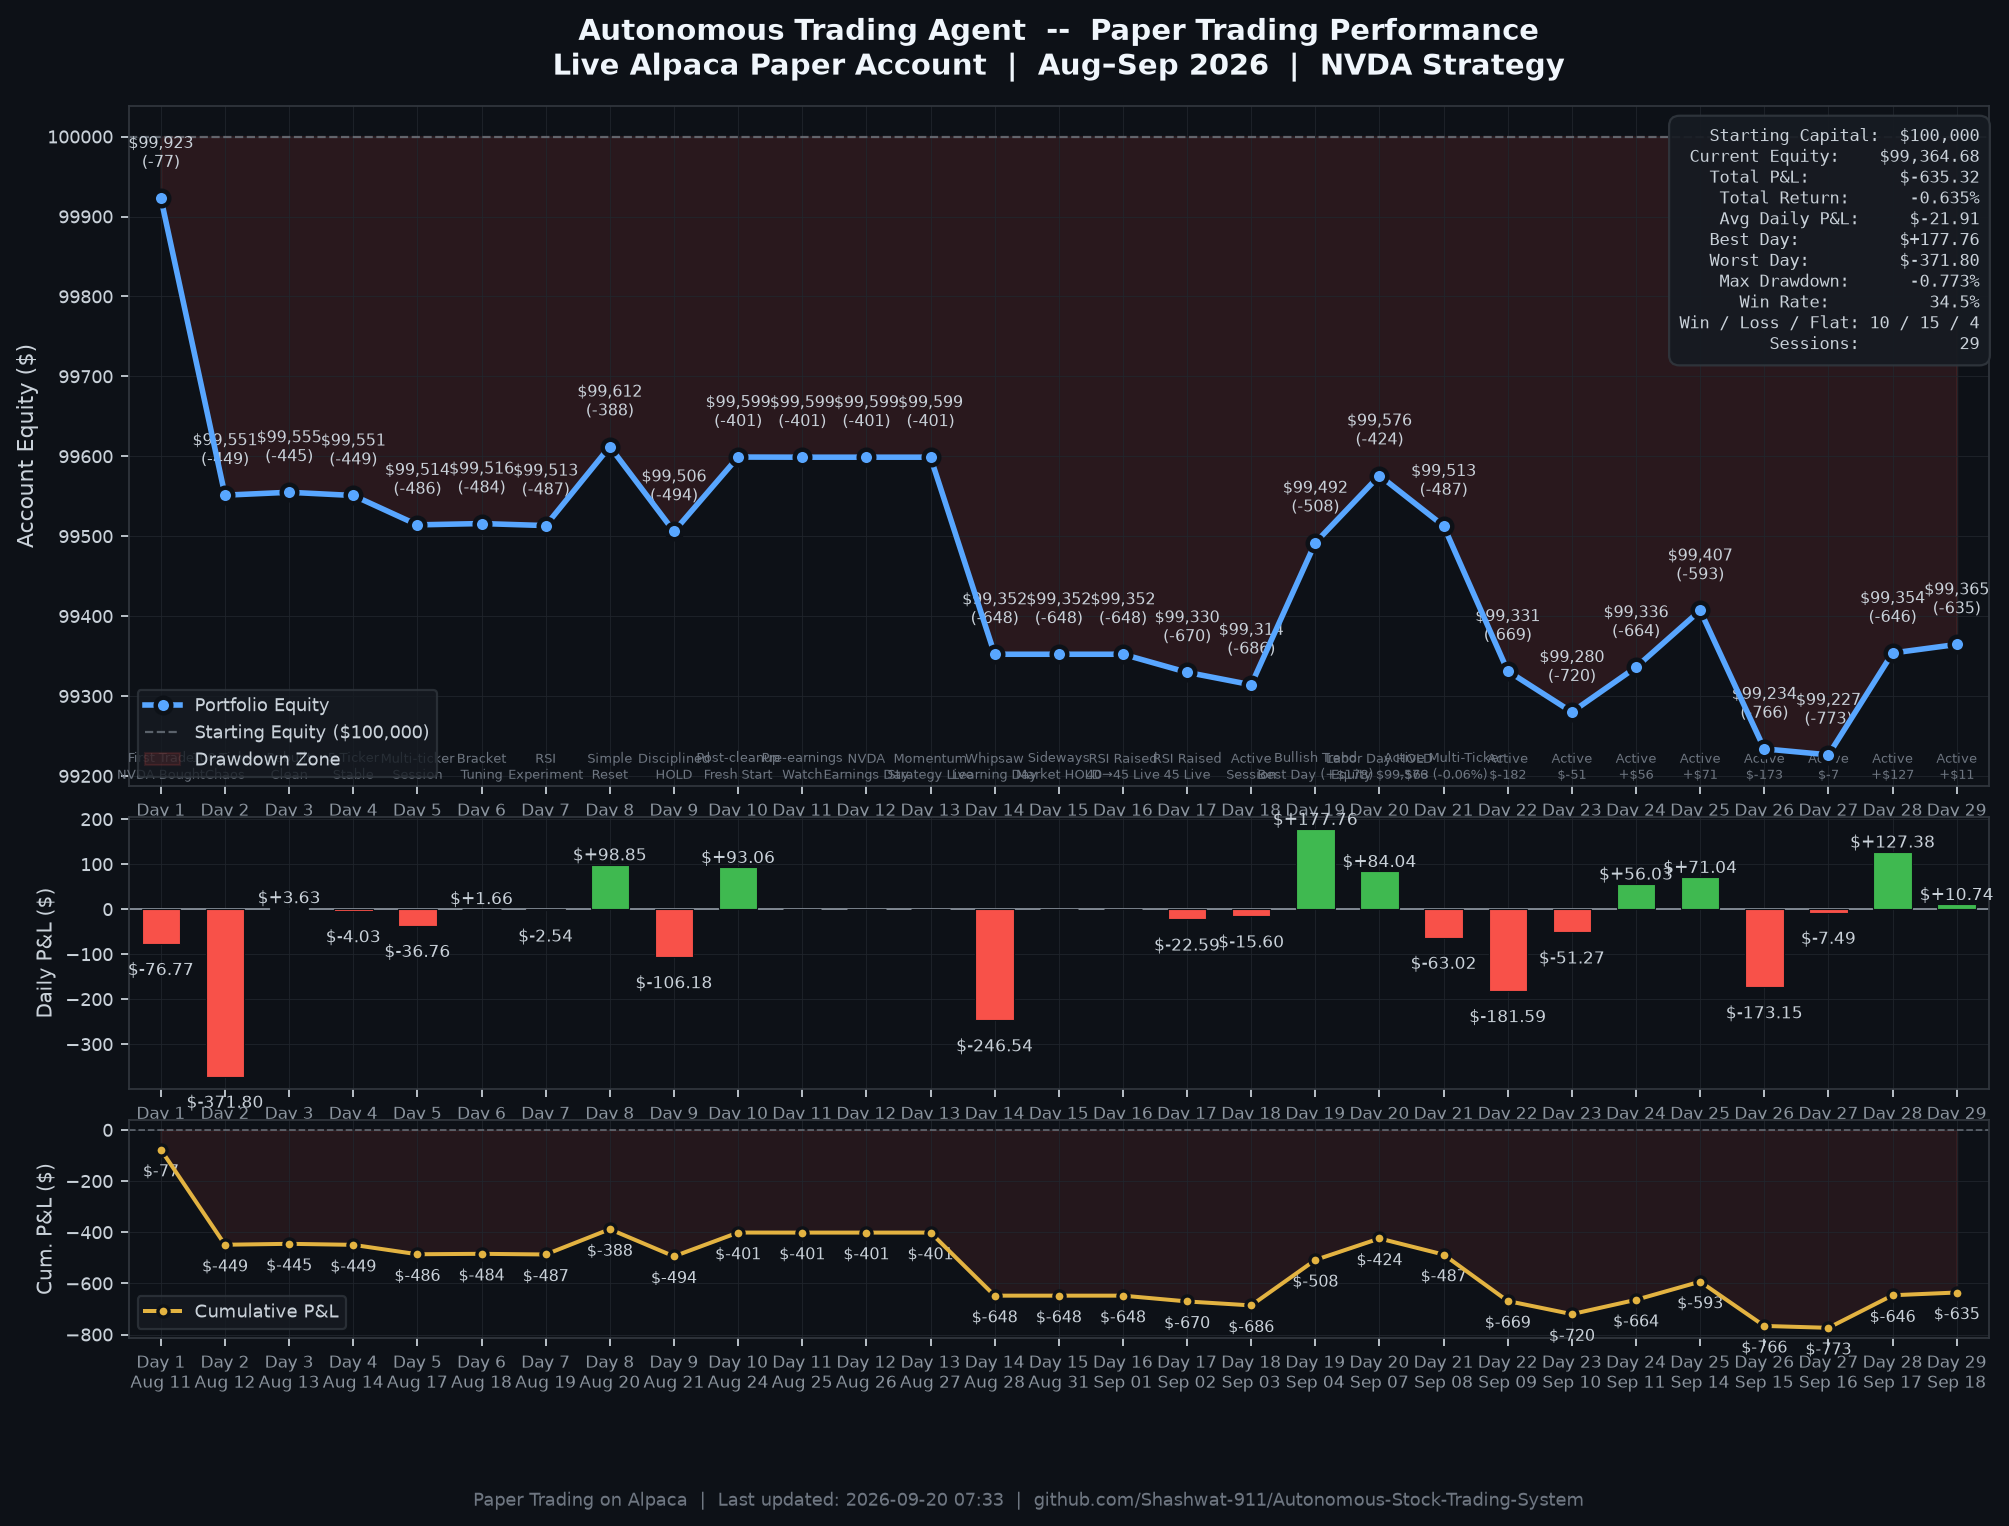
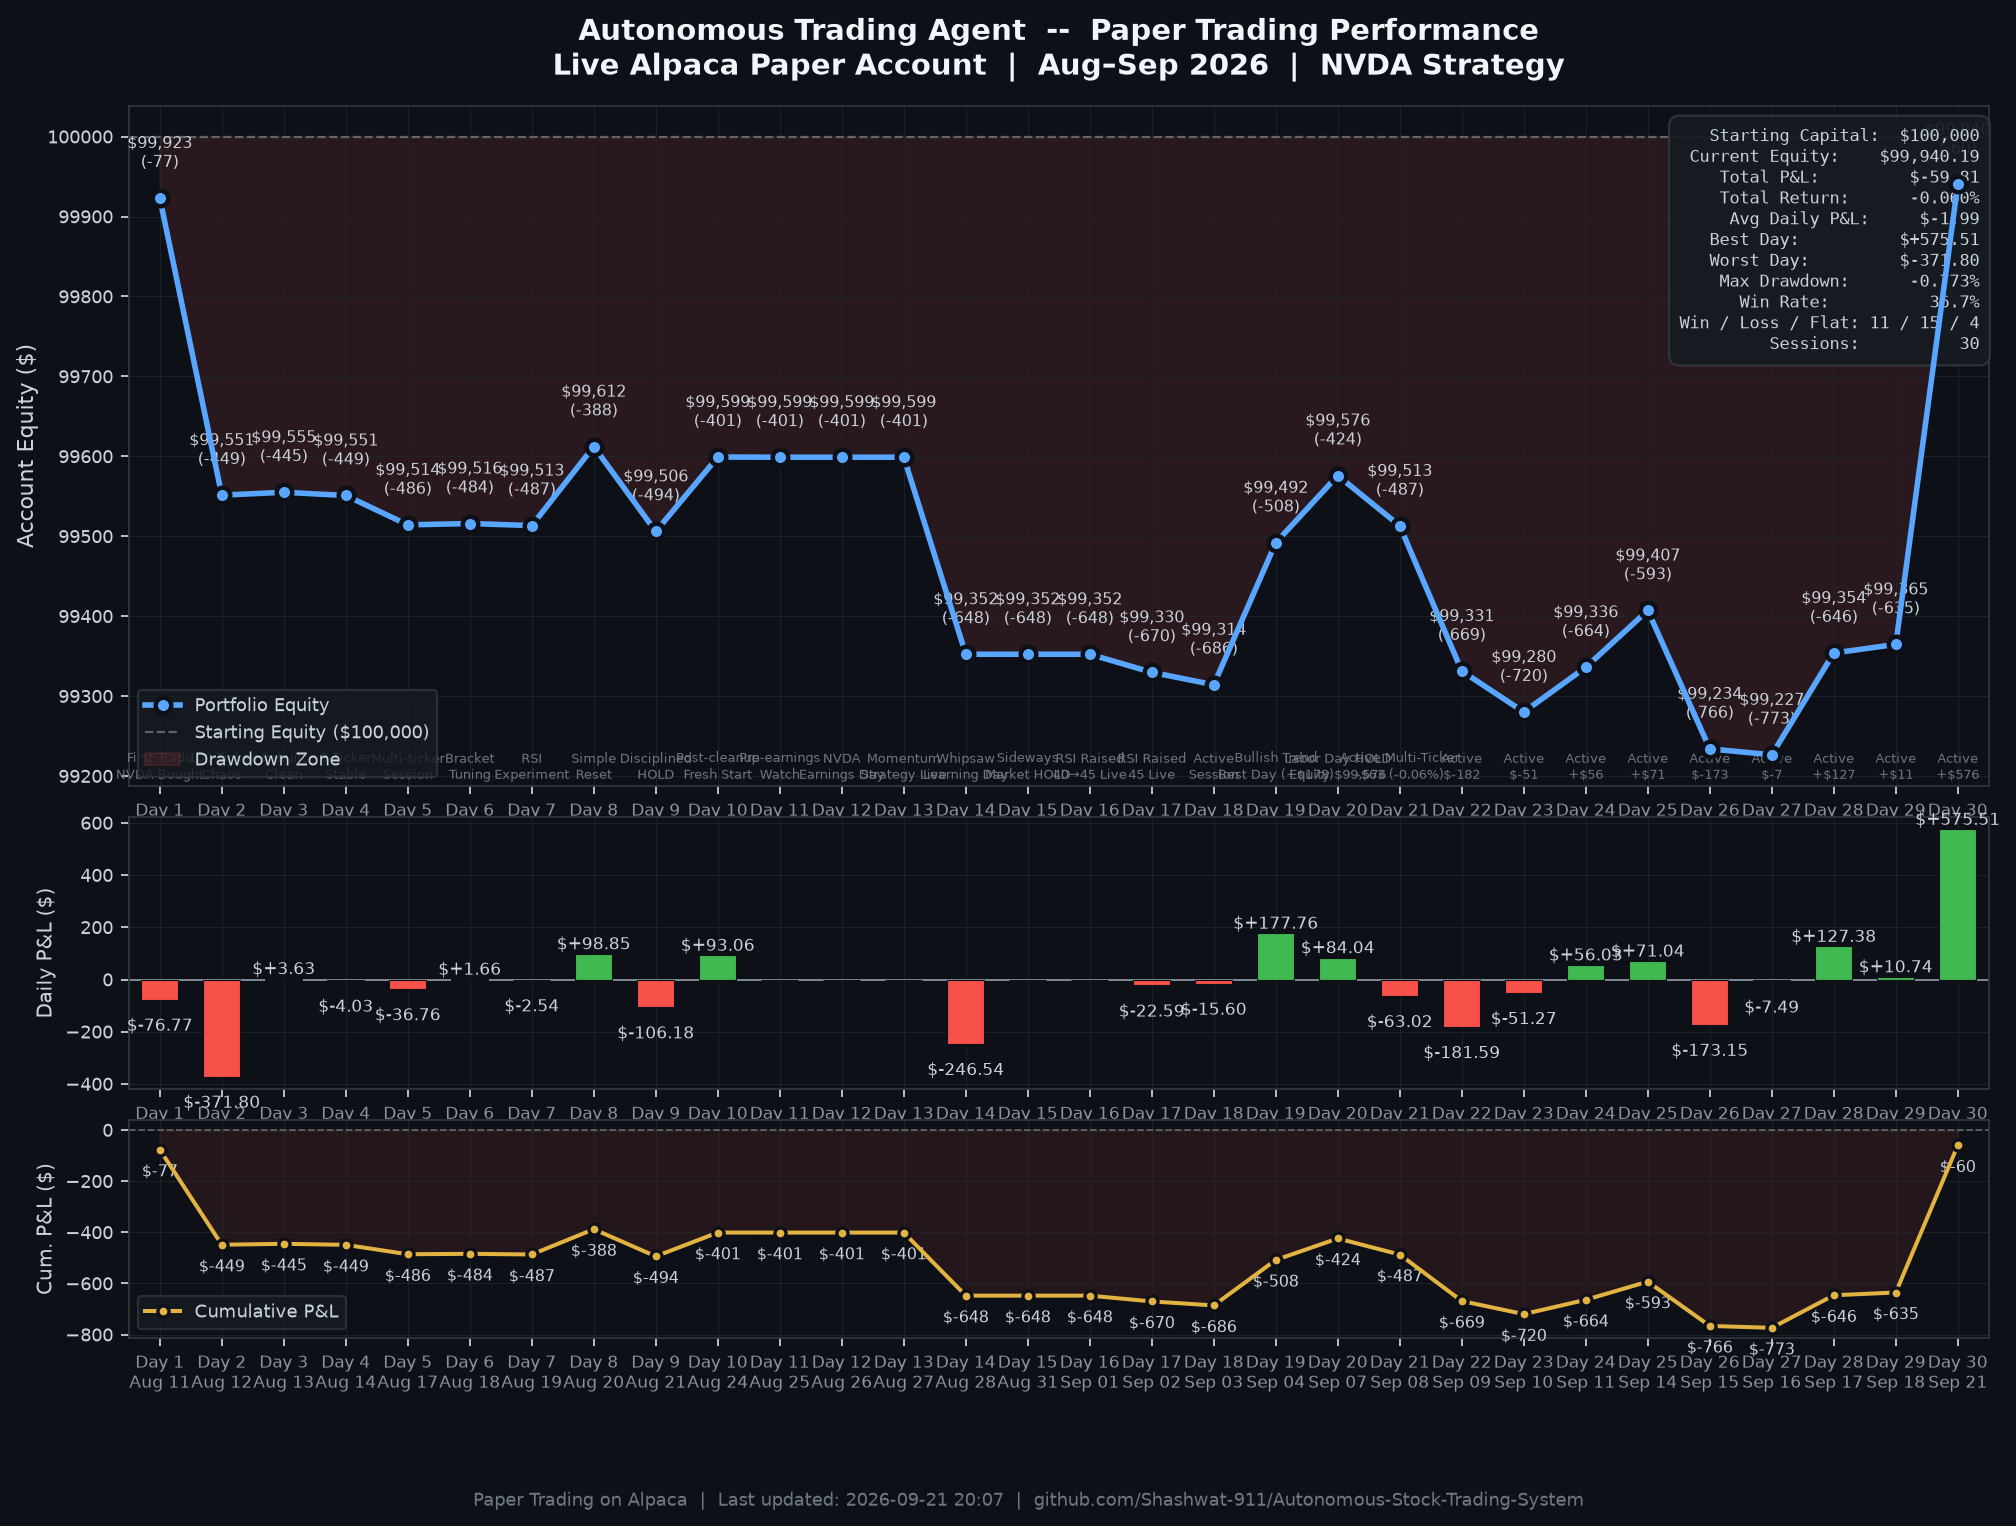
auto(session): 2026-09-21 | equity=$99,940 | return=-0.060%

diff --git a/README.md b/README.md
@@ -47,7 +47,7 @@ The automated trading bot is deployed in the cloud on Render with continuous mon
 
 > **Paper Trading on Alpaca** | Started: Aug 11, 2026 | Initial Capital: $100,000.00 | Universe: NVDA, TSLA, META, MSFT, AAPL (5-Stock High-Momentum Universe)
 
-![Daily P&L Chart](outputs/daily_pnl_chart.png?v=20260918)
+![Daily P&L Chart](outputs/daily_pnl_chart.png?v=20260921)
 
 *Chart auto-generated from live Alpaca Portfolio History API and verified session telemetry via [`scripts/generate_pnl_chart.py`](scripts/generate_pnl_chart.py).*
 
@@ -84,8 +84,9 @@ The automated trading bot is deployed in the cloud on Render with continuous mon
 | **Day 27** | Sep 16 (Wed) | $99,226.56 | -$7.49 | -$773.44 | -0.773% | Active Session (-$7.49) |
 | **Day 28** | Sep 17 (Thu) | $99,353.94 | **+$127.38** | -$646.06 | -0.646% | Profitable Session (+$127.38) |
 | **Day 29** | Sep 18 (Fri) | $99,364.68 | +$10.74 | -$635.32 | -0.635% | Active Session (+$10.74) |
+| **Day 30** | Sep 21 (Mon) | $99,940.19 | **+$575.51** | -$59.81 | -0.060% | Profitable Session (+$575.51) |
 
-> **Current Equity**: $99,364.68 | **Total P&L**: $-635.32 | **Best Day**: $+177.76 | **Win Rate**: 34.5% (10W / 15L / 4 Flat) | **Max Drawdown**: -0.773% | **Sessions**: 29
+> **Current Equity**: $99,940.19 | **Total P&L**: $-59.81 | **Best Day**: $+575.51 | **Win Rate**: 36.7% (11W / 15L / 4 Flat) | **Max Drawdown**: -0.773% | **Sessions**: 30
 ---
 
 ## System Architecture
